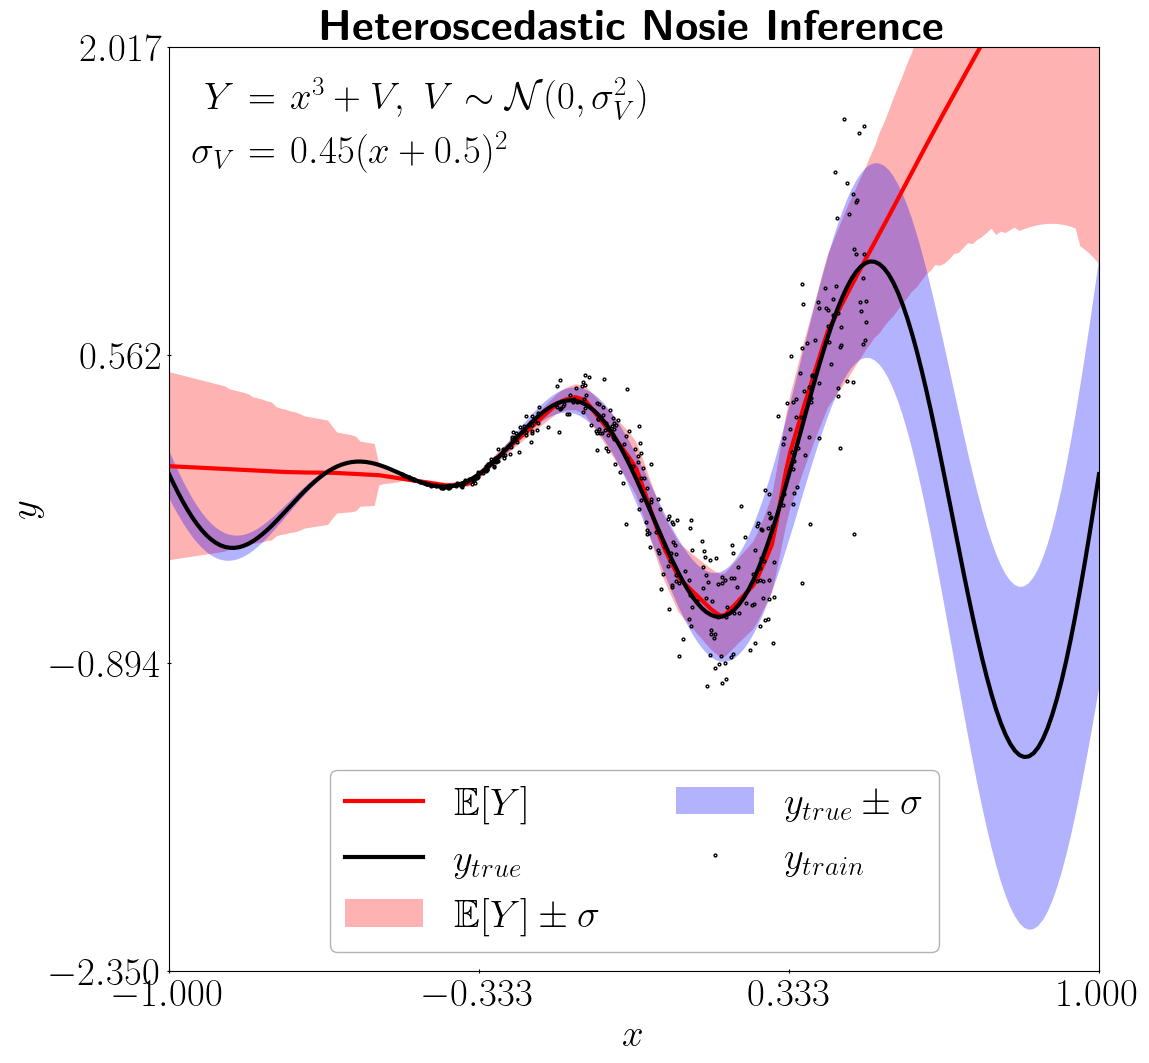
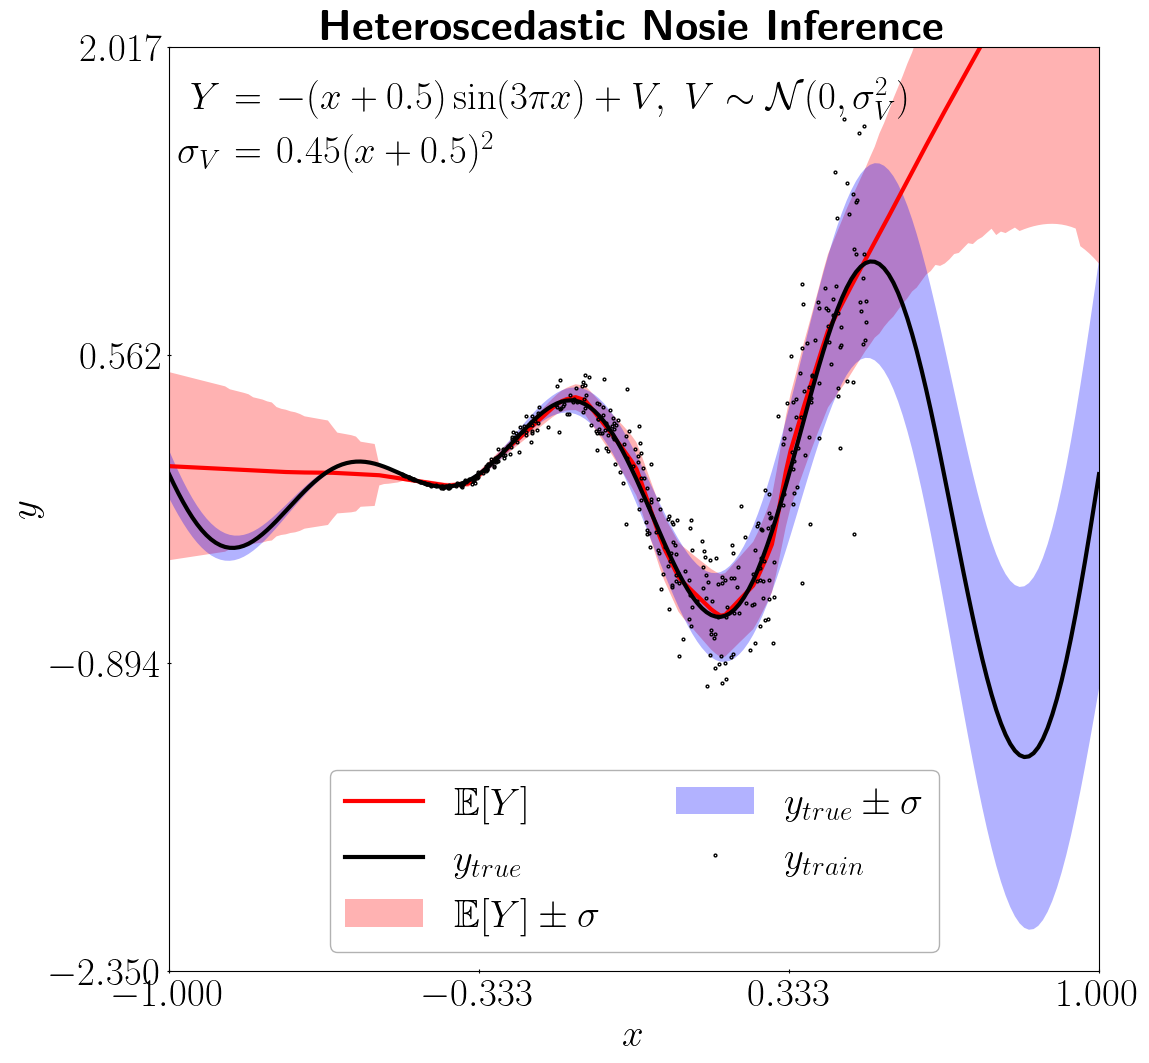
update the correct equations for ni toy example

diff --git a/visualizer.py b/visualizer.py
@@ -356,8 +356,8 @@ def noise_inference():
     """ The analytical formulation for output is defined following
     """
     # Equation
-    eq = r"$\begin{array}{rcl}Y &=& x^{3} + V, ~V\sim\mathcal{N}(0, \sigma_V^2)\\[4pt]\sigma_V &=& 0.45(x + 0.5)^2\end{array}$"
-    x_eq = -0.95
+    eq = r"$\begin{array}{rcl}Y &=& -(x + 0.5)\sin(3\pi x) + V, ~V\sim\mathcal{N}(0, \sigma_V^2)\\[4pt]\sigma_V &=& 0.45(x + 0.5)^2\end{array}$"
+    x_eq = -0.98
     y_eq = 1.6
 
     # User input data
@@ -403,6 +403,6 @@ def noise_inference():
 
 if __name__ == '__main__':
     #regression()
-    autoencoder()
+    #autoencoder()
     #input_uncertainty_prop()
-    #noise_inference()
+    noise_inference()
